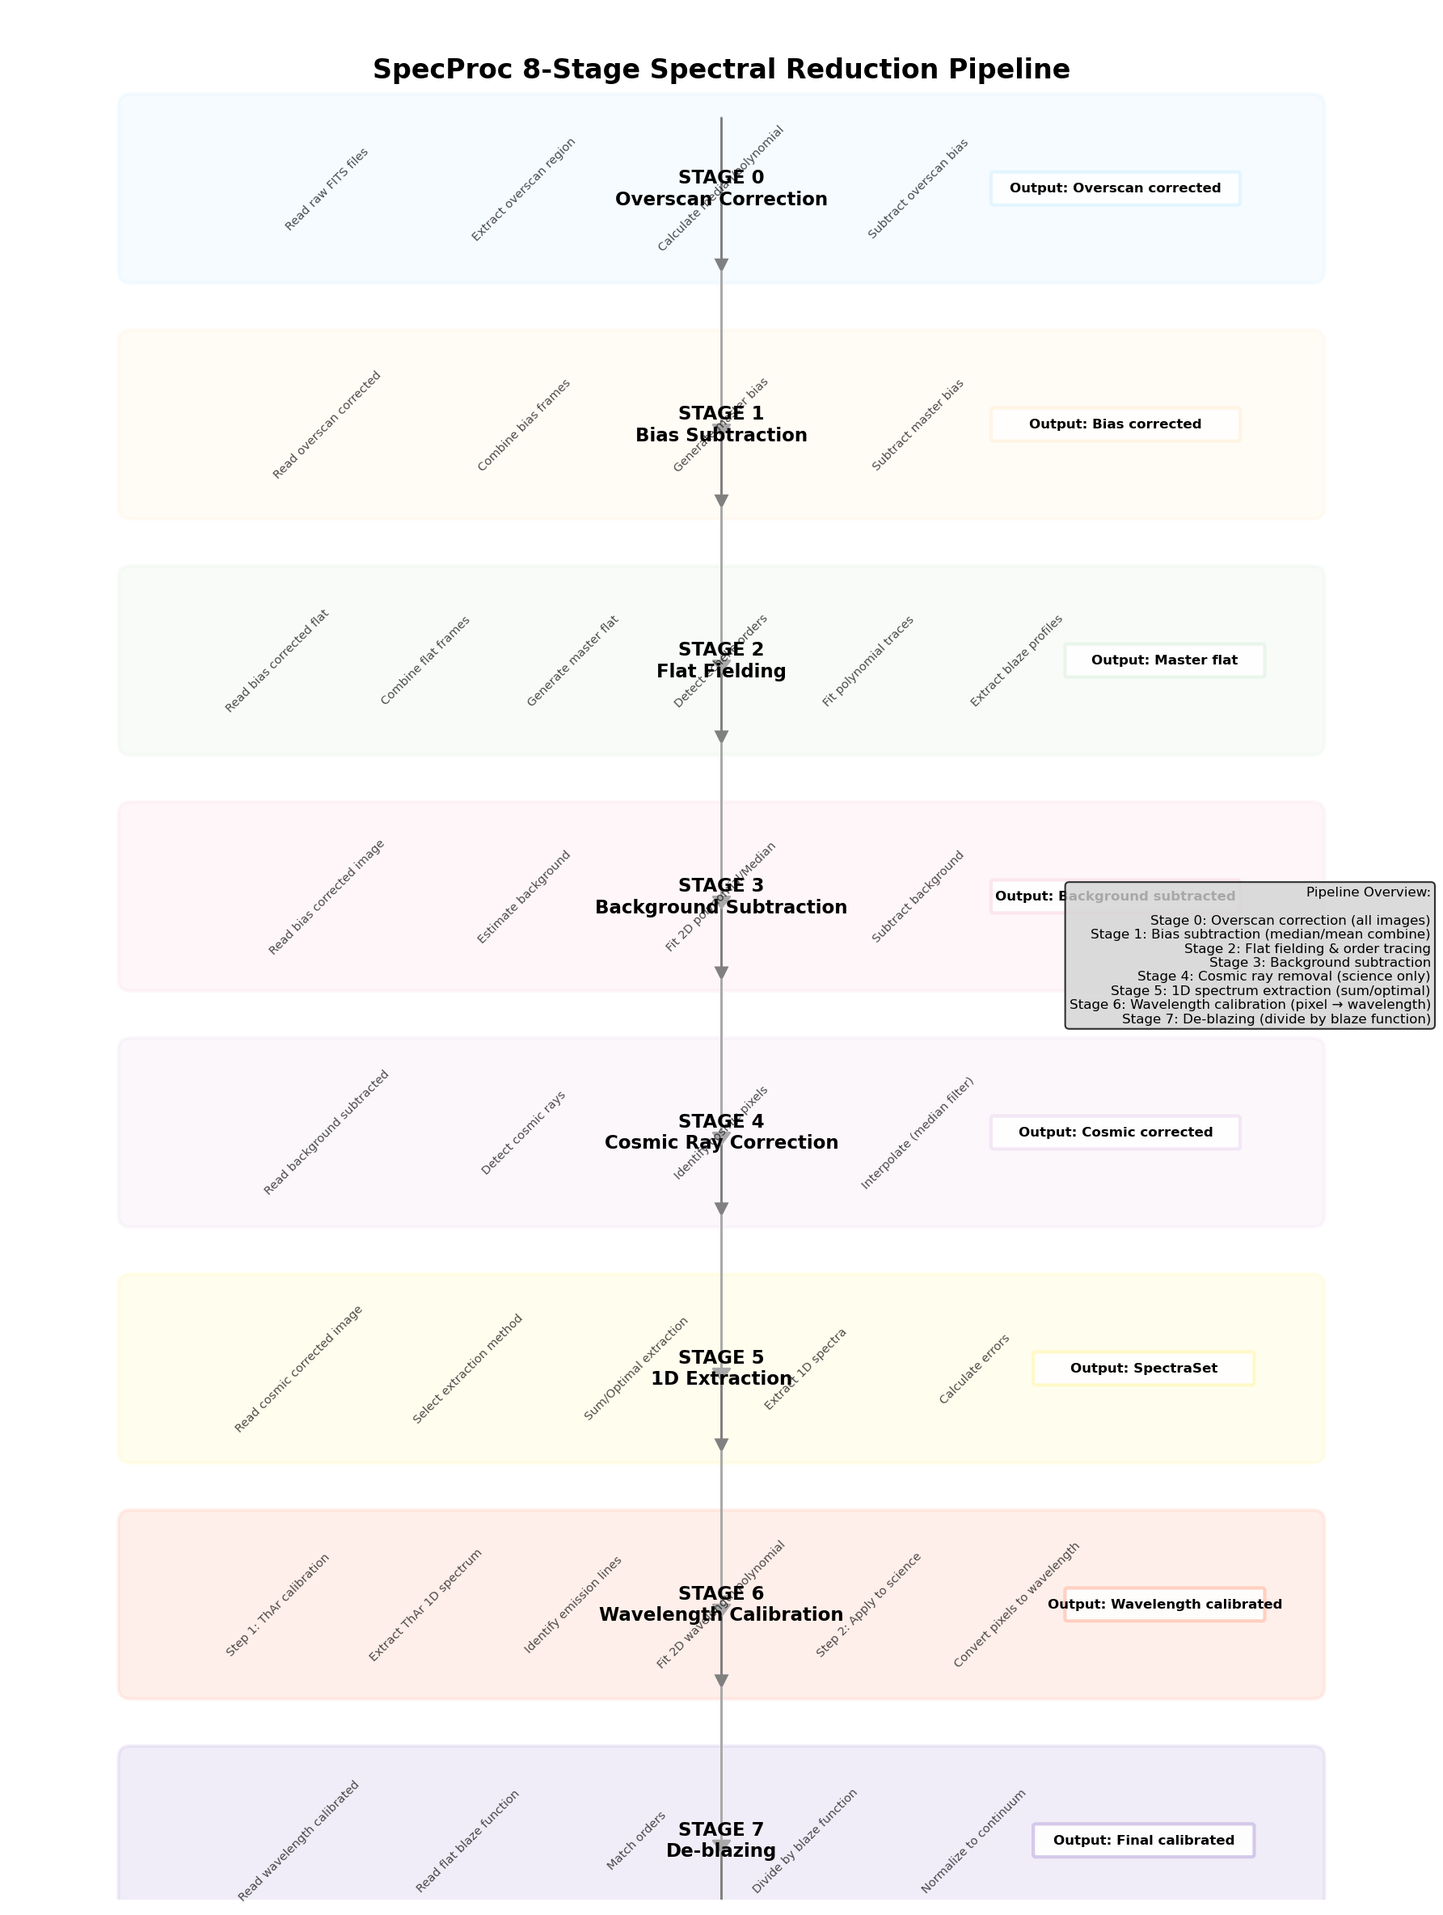
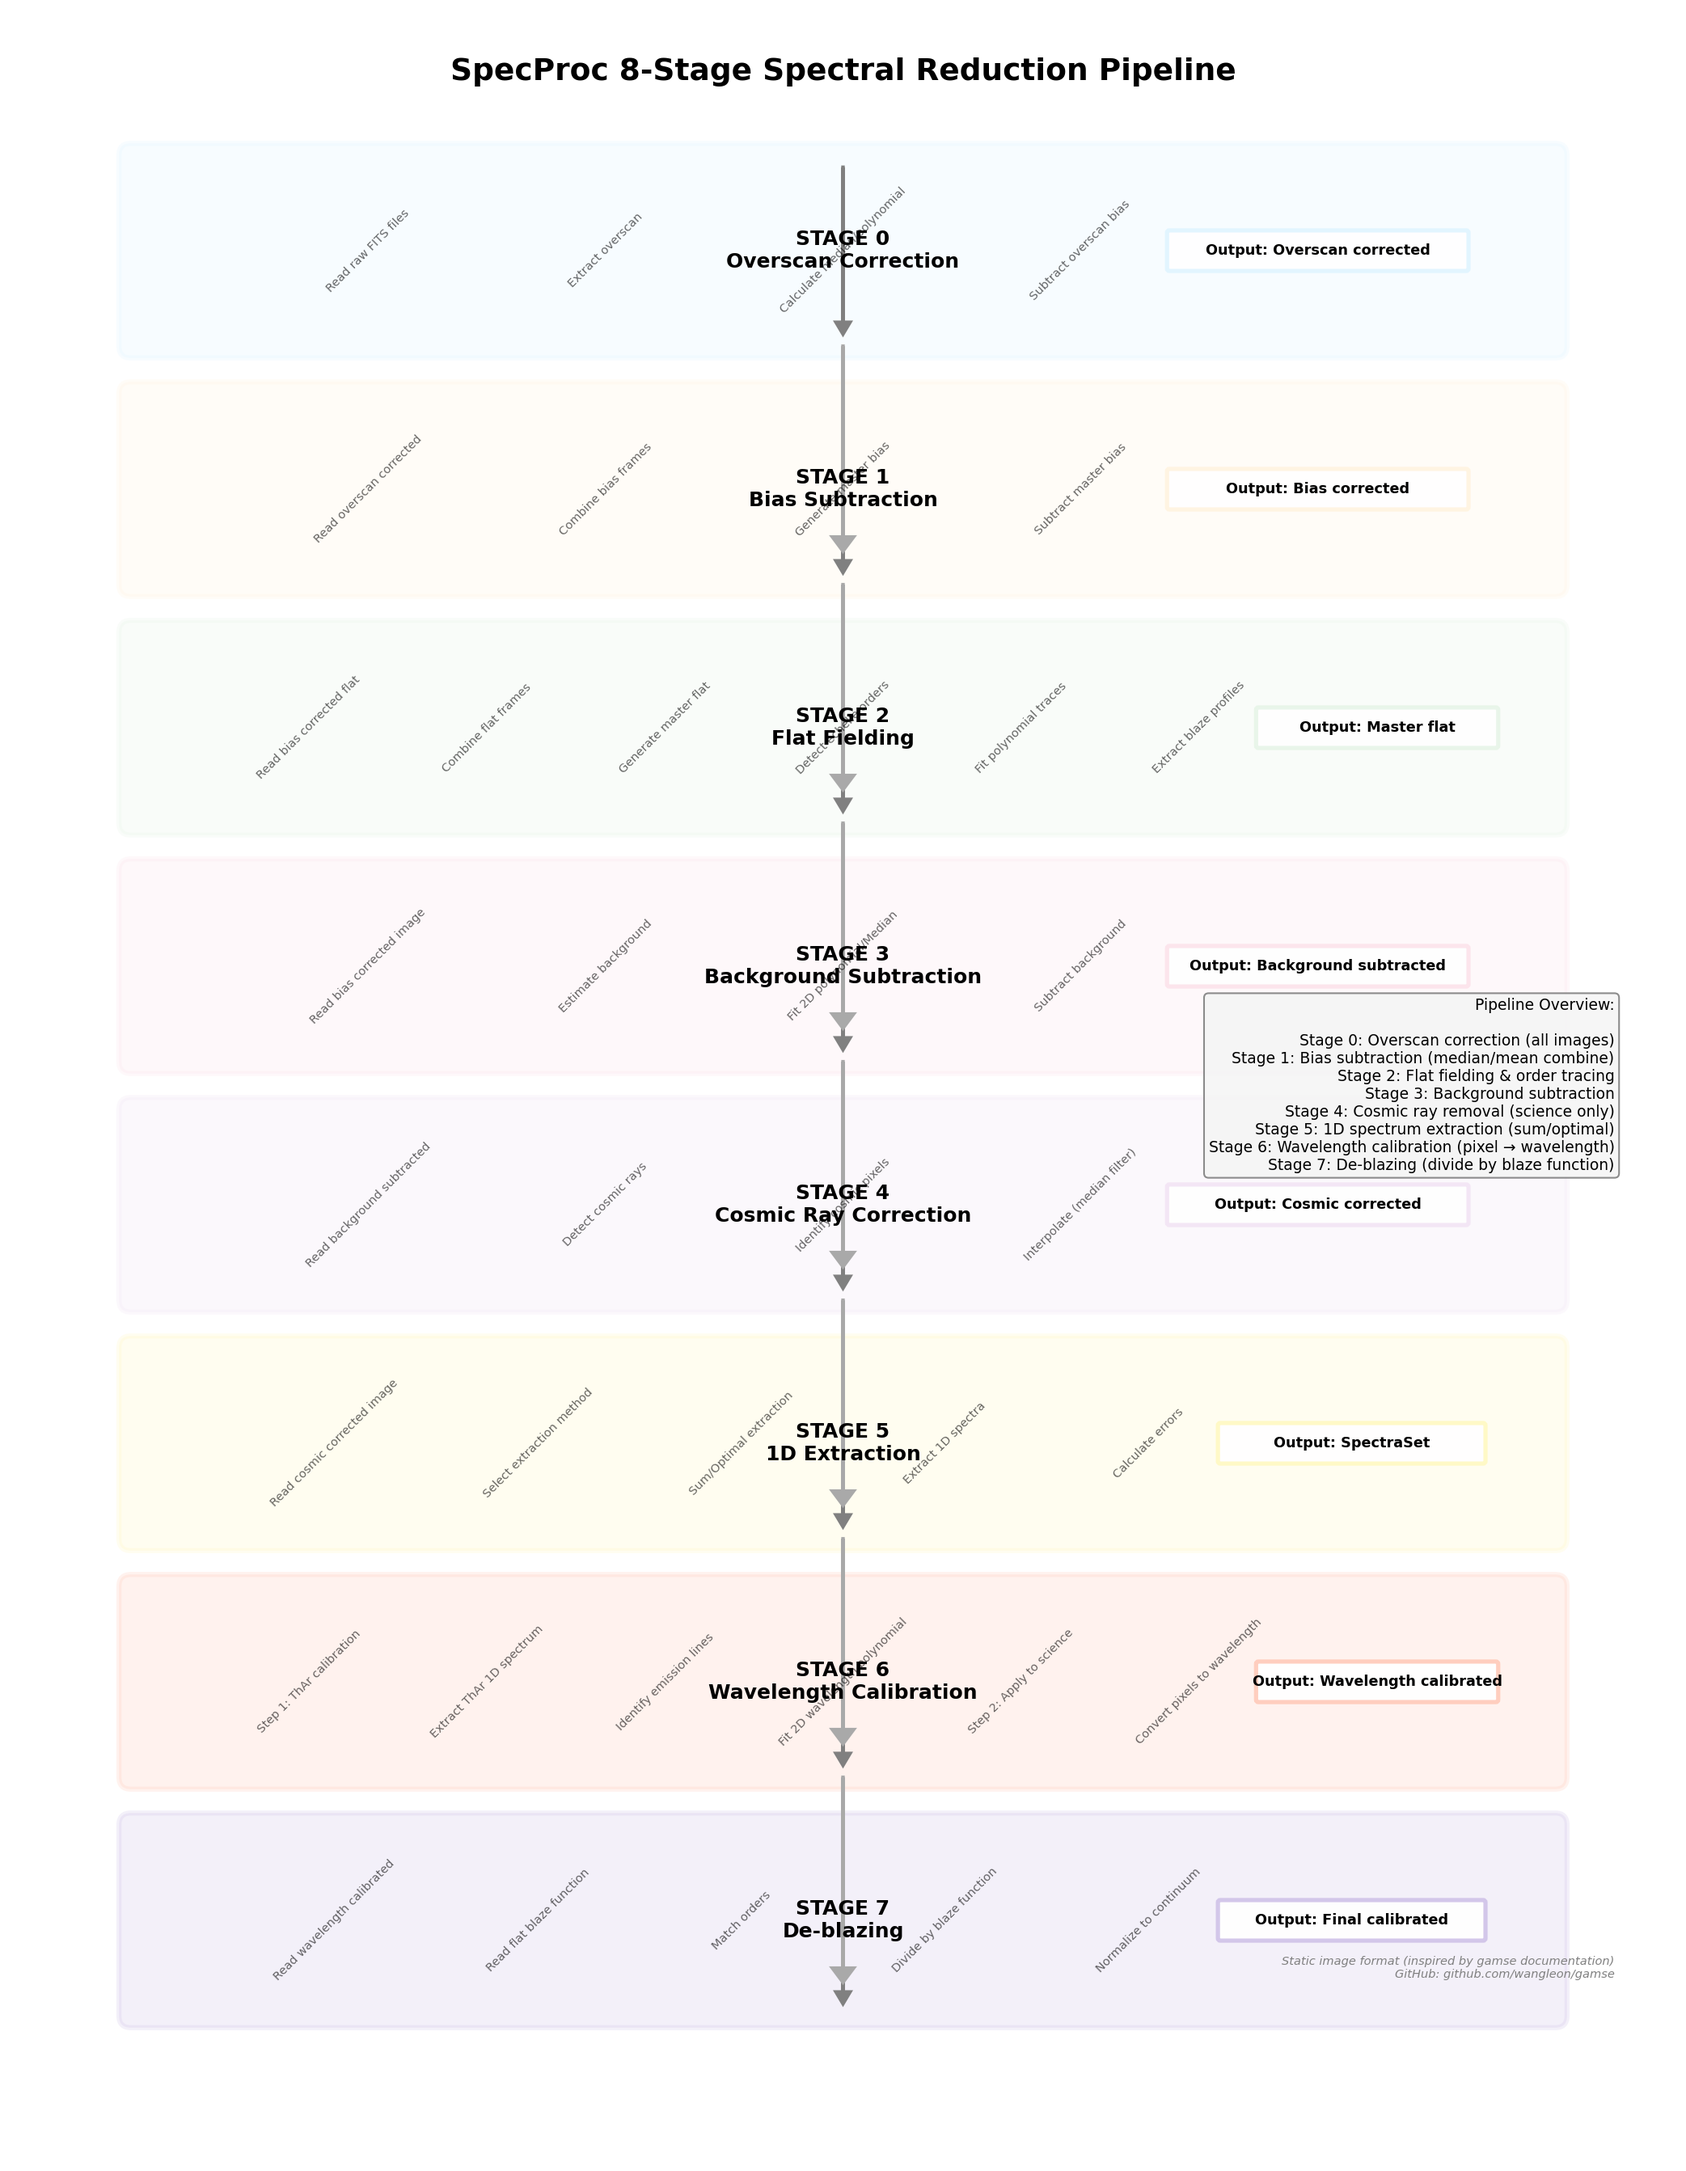
modified:  docs/processing_pipeline_diagram.png

diff --git a/generate_pipeline_diagram.py b/generate_pipeline_diagram.py
@@ -1,38 +1,39 @@
 #!/usr/bin/env python3
 """
 Generate a static image version of the processing pipeline diagram.
+Inspired by gamse documentation approach using static images instead of mermaid.
 """
 
 import matplotlib.pyplot as plt
 import matplotlib.patches as mpatches
 
-# Create figure
-fig, ax = plt.subplots(figsize=(12, 16))
-ax.set_xlim(0, 12)
-ax.set_ylim(0, 16)
+# Create figure with better aspect ratio
+fig, ax = plt.subplots(figsize=(14, 18))
+ax.set_xlim(0, 14)
+ax.set_ylim(0, 18)
 ax.axis('off')
 
-# Define colors for each stage
+# Define colors for each stage (matching our previous mermaid colors)
 stage_colors = [
-    '#e1f5ff',  # Stage 0 - blue
-    '#fff4e1',  # Stage 1 - yellow
-    '#e8f5e9',  # Stage 2 - green
-    '#fce4ec',  # Stage 3 - pink
-    '#f3e5f5',  # Stage 4 - purple
-    '#fff9c4',  # Stage 5 - yellow
-    '#ffccbc',  # Stage 6 - orange
-    '#d1c4e9',  # Stage 7 - purple
+    '#e1f5ff',  # Stage 0 - light blue
+    '#fff4e1',  # Stage 1 - light yellow
+    '#e8f5e9',  # Stage 2 - light green
+    '#fce4ec',  # Stage 3 - light pink
+    '#f3e5f5',  # Stage 4 - light purple
+    '#fff9c4',  # Stage 5 - light yellow
+    '#ffccbc',  # Stage 6 - light orange
+    '#d1c4e9',  # Stage 7 - light purple
 ]
 
 # Stage configurations
 stages = [
     {
         'name': 'STAGE 0\nOverscan Correction',
-        'y': 14.5,
+        'y': 16,
         'color': stage_colors[0],
         'steps': [
             'Read raw FITS files',
-            'Extract overscan region',
+            'Extract overscan',
             'Calculate median/polynomial',
             'Subtract overscan bias',
             'Output: Overscan corrected'
@@ -40,7 +41,7 @@ stages = [
     },
     {
         'name': 'STAGE 1\nBias Subtraction',
-        'y': 12.5,
+        'y': 14,
         'color': stage_colors[1],
         'steps': [
             'Read overscan corrected',
@@ -52,7 +53,7 @@ stages = [
     },
     {
         'name': 'STAGE 2\nFlat Fielding',
-        'y': 10.5,
+        'y': 12,
         'color': stage_colors[2],
         'steps': [
             'Read bias corrected flat',
@@ -66,7 +67,7 @@ stages = [
     },
     {
         'name': 'STAGE 3\nBackground Subtraction',
-        'y': 8.5,
+        'y': 10,
         'color': stage_colors[3],
         'steps': [
             'Read bias corrected image',
@@ -78,7 +79,7 @@ stages = [
     },
     {
         'name': 'STAGE 4\nCosmic Ray Correction',
-        'y': 6.5,
+        'y': 8,
         'color': stage_colors[4],
         'steps': [
             'Read background subtracted',
@@ -90,7 +91,7 @@ stages = [
     },
     {
         'name': 'STAGE 5\n1D Extraction',
-        'y': 4.5,
+        'y': 6,
         'color': stage_colors[5],
         'steps': [
             'Read cosmic corrected image',
@@ -103,7 +104,7 @@ stages = [
     },
     {
         'name': 'STAGE 6\nWavelength Calibration',
-        'y': 2.5,
+        'y': 4,
         'color': stage_colors[6],
         'steps': [
             'Step 1: ThAr calibration',
@@ -117,7 +118,7 @@ stages = [
     },
     {
         'name': 'STAGE 7\nDe-blazing',
-        'y': 0.5,
+        'y': 2,
         'color': stage_colors[7],
         'steps': [
             'Read wavelength calibrated',
@@ -133,56 +134,56 @@ stages = [
 # Draw stages
 for i, stage in enumerate(stages):
     # Stage box
-    box = mpatches.FancyBboxPatch((1, stage['y'] - 0.7), 10, 1.4,
+    box = mpatches.FancyBboxPatch((1, stage['y'] - 0.8), 12, 1.6,
                                      boxstyle="round,pad=0.1",
                                      facecolor=stage['color'],
-                                     alpha=0.3,
+                                     alpha=0.25,
                                      edgecolor=stage['color'],
-                                     linewidth=2)
+                                     linewidth=3)
     ax.add_patch(box)
     
     # Stage title
-    ax.text(6, stage['y'], stage['name'], ha='center', va='center',
-            fontsize=11, fontweight='bold')
+    ax.text(7, stage['y'], stage['name'], ha='center', va='center',
+            fontsize=12, fontweight='bold')
     
     # Draw steps
     steps = stage['steps']
-    step_width = 10 / (len(steps) + 1)
+    step_width = 12 / (len(steps) + 1)
     for j, step in enumerate(steps):
         x_pos = 1 + (j + 1) * step_width
         if j == 0:
             # Draw input arrow
-            ax.arrow(6, stage['y'] + 0.6, 0, -1.2,
-                   head_width=0.1, head_length=0.1, fc='gray', ec='gray')
+            ax.arrow(7, stage['y'] + 0.7, 0, -1.3,
+                   head_width=0.12, head_length=0.1, fc='gray', ec='gray', linewidth=2)
         
         # Draw step indicator
         if j < len(steps) - 1:
-            # Regular step
+            # Regular step - small text
             ax.text(x_pos, stage['y'], step, ha='center', va='center',
-                    fontsize=7, rotation=45, alpha=0.7)
+                    fontsize=7, rotation=45, alpha=0.6)
         else:
-            # Output step - make it stand out
-            step_box = mpatches.FancyBboxPatch((x_pos - step_width/2 - 0.2, stage['y'] - 0.12),
-                                                   step_width + 0.4, 0.24,
+            # Output step - make it prominent
+            step_box = mpatches.FancyBboxPatch((x_pos - step_width/2 - 0.25, stage['y'] - 0.15),
+                                                   step_width + 0.5, 0.3,
                                                    boxstyle="round,pad=0.02",
                                                    facecolor='white',
                                                    edgecolor=stage['color'],
-                                                   linewidth=2,
-                                                   alpha=0.9)
+                                                   linewidth=2.5,
+                                                   alpha=0.95)
             ax.add_patch(step_box)
             ax.text(x_pos, stage['y'], step, ha='center', va='center',
-                    fontsize=8, fontweight='bold')
+                    fontsize=8.5, fontweight='bold')
 
 # Draw arrows between stages
 for i in range(len(stages) - 1):
-    ax.arrow(6, stages[i]['y'] - 0.7, 0, -1.3,
-               head_width=0.15, head_length=0.1, fc='darkgray', ec='darkgray')
+    ax.arrow(7, stages[i]['y'] - 0.8, 0, -1.6,
+               head_width=0.18, head_length=0.12, fc='darkgray', ec='darkgray', linewidth=2)
 
 # Add title
-ax.text(6, 15.5, 'SpecProc 8-Stage Spectral Reduction Pipeline', 
-        ha='center', va='center', fontsize=16, fontweight='bold')
+ax.text(7, 17.5, 'SpecProc 8-Stage Spectral Reduction Pipeline', 
+        ha='center', va='center', fontsize=18, fontweight='bold')
 
-# Add legend
+# Add legend with better formatting
 legend_text = (
     "Pipeline Overview:\n\n"
     "Stage 0: Overscan correction (all images)\n"
@@ -195,9 +196,15 @@ legend_text = (
     "Stage 7: De-blazing (divide by blaze function)"
 )
 
-ax.text(12, 8, legend_text, ha='right', va='center', fontsize=8,
-        bbox=dict(boxstyle='round', facecolor='lightgray', alpha=0.8))
+ax.text(13.5, 9, legend_text, ha='right', va='center', fontsize=9,
+        bbox=dict(boxstyle='round', facecolor='whitesmoke', alpha=0.9, edgecolor='gray', linewidth=1))
+
+# Add note about inspired by gamse
+ax.text(13.5, 1.5, "Static image format (inspired by gamse documentation)\n"
+        "GitHub: github.com/wangleon/gamse",
+        ha='right', va='bottom', fontsize=7, style='italic', color='gray')
 
 plt.tight_layout()
-plt.savefig('docs/processing_pipeline_diagram.png', dpi=150, bbox_inches='tight')
+plt.savefig('docs/processing_pipeline_diagram.png', dpi=150, bbox_inches='tight', 
+            facecolor='white', edgecolor='none')
 print("Pipeline diagram saved to docs/processing_pipeline_diagram.png")
